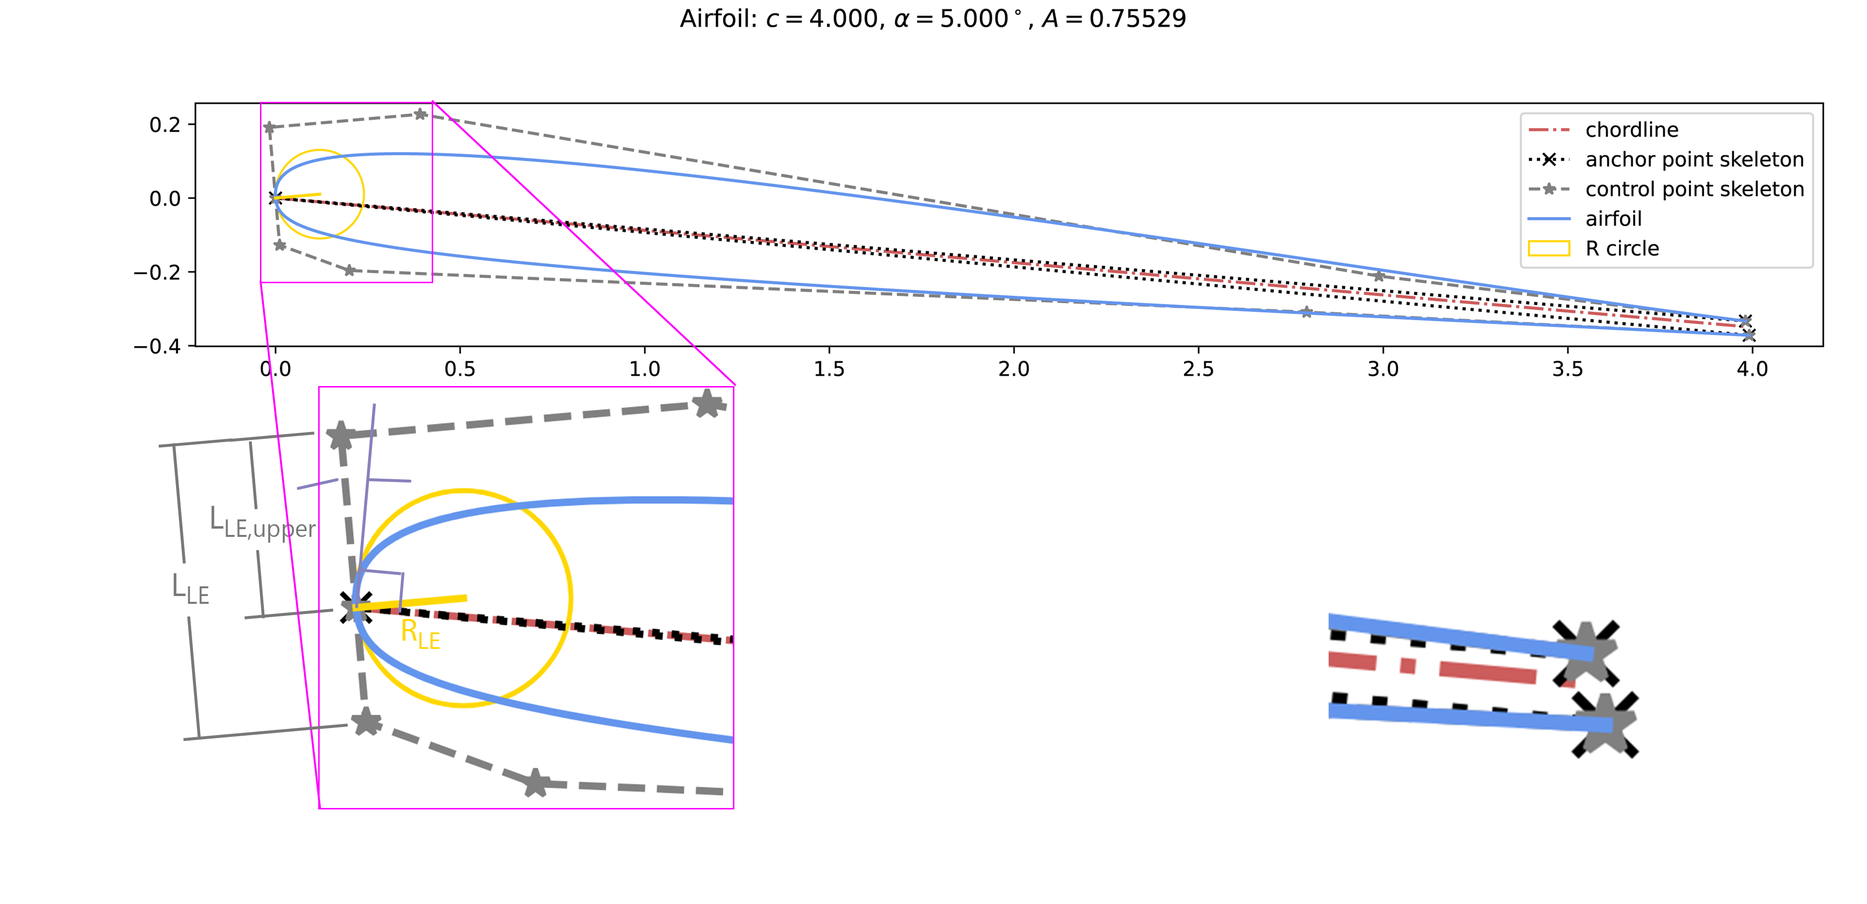
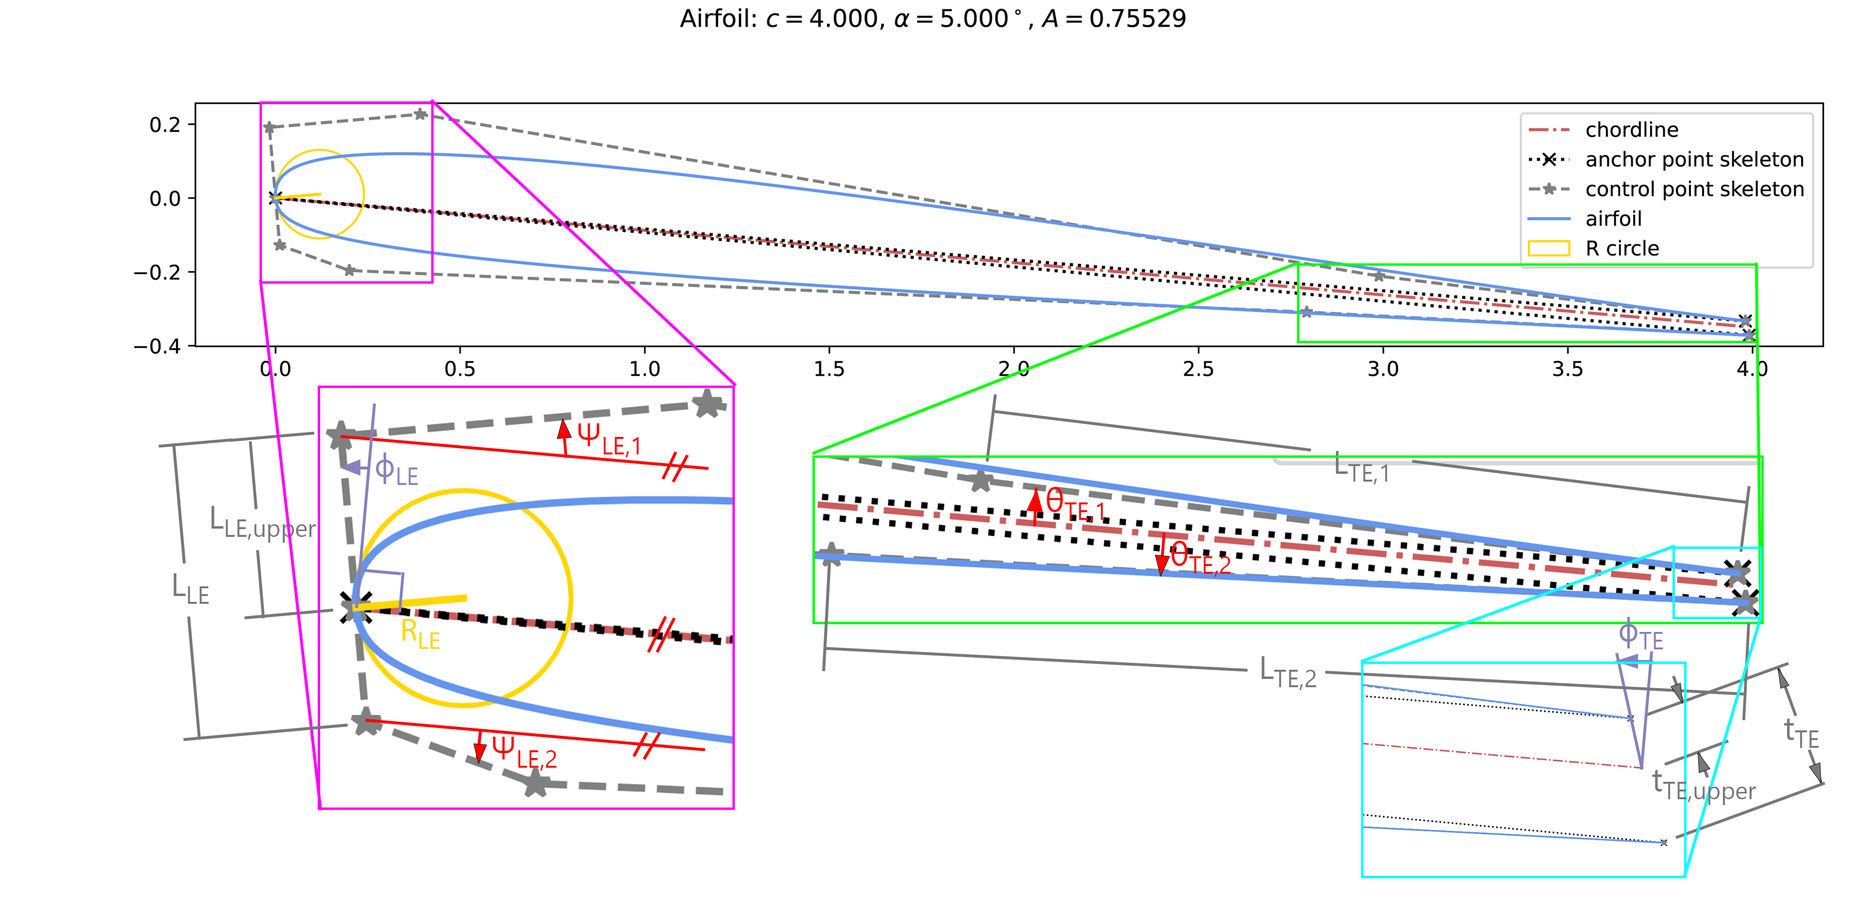
Finished documentation on BaseAirfoilParams, added documentation to Airfoil

diff --git a/docs/pyairpar/core/base_airfoil_params.html b/docs/pyairpar/core/base_airfoil_params.html
@@ -58,9 +58,63 @@ class BaseAirfoilParams:
 
         The most fundamental parameters required for the generation of any `pyairpar.core.airfoil.Airfoil`.
         A geometric description of an example airfoil generated (from `pyairpar.examples.simple_airfoil.main`) is
-        shown below
+        shown below (it may be helpful to open the image in a new tab to adequately view the details):
 
         .. image:: simple_airfoil_annotated.png
+
+        ### Args:
+
+        `c`: ( \\(c\\) ) chord length `pyairpar.core.param.Param`: Default value: `1.0`.
+
+        `alf`: ( \\(\\alpha\\) ) angle of attack (rad): `pyairpar.core.param.Param`. Default value: `0.0`.
+
+        `R_LE`: ( \\(R_{LE}\\) ) leading-edge radius: `pyairpar.core.param.Param`. Default value: `0.1`.
+
+        `L_LE`: ( \\(L_{LE}\\) ) distance between the control points immediately before and after the leading-edge
+        anchor point: `pyairpar.core.param.Param`. Default value: `0.1`.
+
+        `r_LE`: ( \\(r_{LE}\\) ) ratio of the distance from the leading-edge anchor point to the control point before to
+        the distance between the control points immediately before and after the leading-edge
+        anchor point ( \\( r_{LE} = L_{LE,upper} / L_{LE} \\) ): `pyairpar.core.param.Param`. Default value: `0.5`.
+
+        `phi_LE`: ( \\(\\phi_{LE}\\) ) leading-edge tilt (rad), referenced counter-clockwise from the perpendicular to
+        the chordline: `pyairpar.core.param.Param`. Default value: `0.0`.
+
+        `psi1_LE`: ( \\(\\psi_{LE,1}\\) ) leading-edge upper curvature control angle (rad), referenced counter-clockwise
+        from the chordline: `pyairpar.core.param.Param`. Default value: `0.0`.
+
+        `psi2_LE`: ( \\(\\psi_{LE,2}\\) ) leading-edge lower curvature control angle (rad), referenced clockwise
+        from the chordline: `pyairpar.core.param.Param`. Default value: `0.0`.
+
+        `L1_TE`: ( \\(L_{TE,1}\\) ) trailing edge upper length: `pyairpar.core.param.Param`. Default value: `0.1`.
+
+        `L2_TE`: ( \\(L_{TE,2}\\) ) trailing edge lower length: `pyairpar.core.param.Param`. Default value: `0.1`.
+
+        `theta1_TE`: ( \\(\\theta_{TE,1}\\) ) trailing edge upper angle (rad), referenced clockwise from the chordline:
+        `pyairpar.core.param.Param`. Default value: `np.deg2rad(10.0)`.
+
+        `theta2_TE`: ( \\(\\theta_{TE,2}\\) ) trailing edge lower angle (rad), referenced counter-clockwise from the
+        chordline: `pyairpar.core.param.Param`. Default value: `np.deg2rad(10.0)`.
+
+        `t_TE`: ( \\( t_{TE}\\) ) blunt trailing edge thickness: `pyairpar.core.param.Param`. Default value: `0.0`.
+
+        `r_TE`: ( \\(r_{TE}\\) ) ratio of the distance from the chordline&#39;s endpoint at the trailing edge to the
+        first control point of the airfoil to the distance between the first and last control points of the airfoil
+        ( \\( r_{TE} = L_{TE,upper} / L_{TE} \\) ): `pyairpar.core.param.Param`. Default value: `0.5`.
+
+        `phi_TE`: ( \\( \\phi_{TE}\\) ) blunt trailing-edge tilt (rad), referenced counter-clockwise from the
+        perpendicular to the chordline (same as `phi_LE`): `pyairpar.core.param.Param`. Default value: `0.0`.
+
+        `dx`: ( \\( \\Delta x\\) ) distance to translate the airfoil in the \\(x\\)-direction:
+        `pyairpar.core.param.Param`. Default value: `0.0`. The translation operation follows the rotation operation
+        such that the rotation operation can be performed about the origin. Inactive by default.
+
+        `dy`: ( \\( \\Delta y\\) ) distance to translate the airfoil in the \\(y\\)-direction:
+        `pyairpar.core.param.Param`. Default value: `0.0`. The translation operation follows the rotation operation
+        such that the rotation operation can be performed about the origin. Inactive by default.
+
+        `non_dim_by_chord`: a `bool` that determines whether the `pyairpar.core.param.Param`s with `units == length`
+        should be non-dimensionalized by the chord (`c`). Default value: `True`.
         &#34;&#34;&#34;
 
         self.c = c
@@ -154,8 +208,43 @@ class BaseAirfoilParams:
 <div class="desc"><h3 id="description">Description:</h3>
 <p>The most fundamental parameters required for the generation of any <code><a title="pyairpar.core.airfoil.Airfoil" href="airfoil.html#pyairpar.core.airfoil.Airfoil">Airfoil</a></code>.
 A geometric description of an example airfoil generated (from <code><a title="pyairpar.examples.simple_airfoil.main" href="../examples/simple_airfoil.html#pyairpar.examples.simple_airfoil.main">main()</a></code>) is
-shown below</p>
-<p><img alt="" src="simple_airfoil_annotated.png"></p></div>
+shown below (it may be helpful to open the image in a new tab to adequately view the details):</p>
+<p><img alt="" src="simple_airfoil_annotated.png"></p>
+<h3 id="args">Args:</h3>
+<p><code>c</code>: ( <span><span class="MathJax_Preview">c</span><script type="math/tex">c</script></span> ) chord length <code><a title="pyairpar.core.param.Param" href="param.html#pyairpar.core.param.Param">Param</a></code>: Default value: <code>1.0</code>.</p>
+<p><code>alf</code>: ( <span><span class="MathJax_Preview">\alpha</span><script type="math/tex">\alpha</script></span> ) angle of attack (rad): <code><a title="pyairpar.core.param.Param" href="param.html#pyairpar.core.param.Param">Param</a></code>. Default value: <code>0.0</code>.</p>
+<p><code>R_LE</code>: ( <span><span class="MathJax_Preview">R_{LE}</span><script type="math/tex">R_{LE}</script></span> ) leading-edge radius: <code><a title="pyairpar.core.param.Param" href="param.html#pyairpar.core.param.Param">Param</a></code>. Default value: <code>0.1</code>.</p>
+<p><code>L_LE</code>: ( <span><span class="MathJax_Preview">L_{LE}</span><script type="math/tex">L_{LE}</script></span> ) distance between the control points immediately before and after the leading-edge
+anchor point: <code><a title="pyairpar.core.param.Param" href="param.html#pyairpar.core.param.Param">Param</a></code>. Default value: <code>0.1</code>.</p>
+<p><code>r_LE</code>: ( <span><span class="MathJax_Preview">r_{LE}</span><script type="math/tex">r_{LE}</script></span> ) ratio of the distance from the leading-edge anchor point to the control point before to
+the distance between the control points immediately before and after the leading-edge
+anchor point ( <span><span class="MathJax_Preview"> r_{LE} = L_{LE,upper} / L_{LE} </span><script type="math/tex"> r_{LE} = L_{LE,upper} / L_{LE} </script></span> ): <code><a title="pyairpar.core.param.Param" href="param.html#pyairpar.core.param.Param">Param</a></code>. Default value: <code>0.5</code>.</p>
+<p><code>phi_LE</code>: ( <span><span class="MathJax_Preview">\phi_{LE}</span><script type="math/tex">\phi_{LE}</script></span> ) leading-edge tilt (rad), referenced counter-clockwise from the perpendicular to
+the chordline: <code><a title="pyairpar.core.param.Param" href="param.html#pyairpar.core.param.Param">Param</a></code>. Default value: <code>0.0</code>.</p>
+<p><code>psi1_LE</code>: ( <span><span class="MathJax_Preview">\psi_{LE,1}</span><script type="math/tex">\psi_{LE,1}</script></span> ) leading-edge upper curvature control angle (rad), referenced counter-clockwise
+from the chordline: <code><a title="pyairpar.core.param.Param" href="param.html#pyairpar.core.param.Param">Param</a></code>. Default value: <code>0.0</code>.</p>
+<p><code>psi2_LE</code>: ( <span><span class="MathJax_Preview">\psi_{LE,2}</span><script type="math/tex">\psi_{LE,2}</script></span> ) leading-edge lower curvature control angle (rad), referenced clockwise
+from the chordline: <code><a title="pyairpar.core.param.Param" href="param.html#pyairpar.core.param.Param">Param</a></code>. Default value: <code>0.0</code>.</p>
+<p><code>L1_TE</code>: ( <span><span class="MathJax_Preview">L_{TE,1}</span><script type="math/tex">L_{TE,1}</script></span> ) trailing edge upper length: <code><a title="pyairpar.core.param.Param" href="param.html#pyairpar.core.param.Param">Param</a></code>. Default value: <code>0.1</code>.</p>
+<p><code>L2_TE</code>: ( <span><span class="MathJax_Preview">L_{TE,2}</span><script type="math/tex">L_{TE,2}</script></span> ) trailing edge lower length: <code><a title="pyairpar.core.param.Param" href="param.html#pyairpar.core.param.Param">Param</a></code>. Default value: <code>0.1</code>.</p>
+<p><code>theta1_TE</code>: ( <span><span class="MathJax_Preview">\theta_{TE,1}</span><script type="math/tex">\theta_{TE,1}</script></span> ) trailing edge upper angle (rad), referenced clockwise from the chordline:
+<code><a title="pyairpar.core.param.Param" href="param.html#pyairpar.core.param.Param">Param</a></code>. Default value: <code>np.deg2rad(10.0)</code>.</p>
+<p><code>theta2_TE</code>: ( <span><span class="MathJax_Preview">\theta_{TE,2}</span><script type="math/tex">\theta_{TE,2}</script></span> ) trailing edge lower angle (rad), referenced counter-clockwise from the
+chordline: <code><a title="pyairpar.core.param.Param" href="param.html#pyairpar.core.param.Param">Param</a></code>. Default value: <code>np.deg2rad(10.0)</code>.</p>
+<p><code>t_TE</code>: ( <span><span class="MathJax_Preview"> t_{TE}</span><script type="math/tex"> t_{TE}</script></span> ) blunt trailing edge thickness: <code><a title="pyairpar.core.param.Param" href="param.html#pyairpar.core.param.Param">Param</a></code>. Default value: <code>0.0</code>.</p>
+<p><code>r_TE</code>: ( <span><span class="MathJax_Preview">r_{TE}</span><script type="math/tex">r_{TE}</script></span> ) ratio of the distance from the chordline's endpoint at the trailing edge to the
+first control point of the airfoil to the distance between the first and last control points of the airfoil
+( <span><span class="MathJax_Preview"> r_{TE} = L_{TE,upper} / L_{TE} </span><script type="math/tex"> r_{TE} = L_{TE,upper} / L_{TE} </script></span> ): <code><a title="pyairpar.core.param.Param" href="param.html#pyairpar.core.param.Param">Param</a></code>. Default value: <code>0.5</code>.</p>
+<p><code>phi_TE</code>: ( <span><span class="MathJax_Preview"> \phi_{TE}</span><script type="math/tex"> \phi_{TE}</script></span> ) blunt trailing-edge tilt (rad), referenced counter-clockwise from the
+perpendicular to the chordline (same as <code>phi_LE</code>): <code><a title="pyairpar.core.param.Param" href="param.html#pyairpar.core.param.Param">Param</a></code>. Default value: <code>0.0</code>.</p>
+<p><code>dx</code>: ( <span><span class="MathJax_Preview"> \Delta x</span><script type="math/tex"> \Delta x</script></span> ) distance to translate the airfoil in the <span><span class="MathJax_Preview">x</span><script type="math/tex">x</script></span>-direction:
+<code><a title="pyairpar.core.param.Param" href="param.html#pyairpar.core.param.Param">Param</a></code>. Default value: <code>0.0</code>. The translation operation follows the rotation operation
+such that the rotation operation can be performed about the origin. Inactive by default.</p>
+<p><code>dy</code>: ( <span><span class="MathJax_Preview"> \Delta y</span><script type="math/tex"> \Delta y</script></span> ) distance to translate the airfoil in the <span><span class="MathJax_Preview">y</span><script type="math/tex">y</script></span>-direction:
+<code><a title="pyairpar.core.param.Param" href="param.html#pyairpar.core.param.Param">Param</a></code>. Default value: <code>0.0</code>. The translation operation follows the rotation operation
+such that the rotation operation can be performed about the origin. Inactive by default.</p>
+<p><code>non_dim_by_chord</code>: a <code>bool</code> that determines whether the <code><a title="pyairpar.core.param.Param" href="param.html#pyairpar.core.param.Param">Param</a></code>s with <code>units == length</code>
+should be non-dimensionalized by the chord (<code>c</code>). Default value: <code>True</code>.</p></div>
 <details class="source">
 <summary>
 <span>Expand source code</span>
@@ -187,9 +276,63 @@ shown below</p>
 
         The most fundamental parameters required for the generation of any `pyairpar.core.airfoil.Airfoil`.
         A geometric description of an example airfoil generated (from `pyairpar.examples.simple_airfoil.main`) is
-        shown below
+        shown below (it may be helpful to open the image in a new tab to adequately view the details):
 
         .. image:: simple_airfoil_annotated.png
+
+        ### Args:
+
+        `c`: ( \\(c\\) ) chord length `pyairpar.core.param.Param`: Default value: `1.0`.
+
+        `alf`: ( \\(\\alpha\\) ) angle of attack (rad): `pyairpar.core.param.Param`. Default value: `0.0`.
+
+        `R_LE`: ( \\(R_{LE}\\) ) leading-edge radius: `pyairpar.core.param.Param`. Default value: `0.1`.
+
+        `L_LE`: ( \\(L_{LE}\\) ) distance between the control points immediately before and after the leading-edge
+        anchor point: `pyairpar.core.param.Param`. Default value: `0.1`.
+
+        `r_LE`: ( \\(r_{LE}\\) ) ratio of the distance from the leading-edge anchor point to the control point before to
+        the distance between the control points immediately before and after the leading-edge
+        anchor point ( \\( r_{LE} = L_{LE,upper} / L_{LE} \\) ): `pyairpar.core.param.Param`. Default value: `0.5`.
+
+        `phi_LE`: ( \\(\\phi_{LE}\\) ) leading-edge tilt (rad), referenced counter-clockwise from the perpendicular to
+        the chordline: `pyairpar.core.param.Param`. Default value: `0.0`.
+
+        `psi1_LE`: ( \\(\\psi_{LE,1}\\) ) leading-edge upper curvature control angle (rad), referenced counter-clockwise
+        from the chordline: `pyairpar.core.param.Param`. Default value: `0.0`.
+
+        `psi2_LE`: ( \\(\\psi_{LE,2}\\) ) leading-edge lower curvature control angle (rad), referenced clockwise
+        from the chordline: `pyairpar.core.param.Param`. Default value: `0.0`.
+
+        `L1_TE`: ( \\(L_{TE,1}\\) ) trailing edge upper length: `pyairpar.core.param.Param`. Default value: `0.1`.
+
+        `L2_TE`: ( \\(L_{TE,2}\\) ) trailing edge lower length: `pyairpar.core.param.Param`. Default value: `0.1`.
+
+        `theta1_TE`: ( \\(\\theta_{TE,1}\\) ) trailing edge upper angle (rad), referenced clockwise from the chordline:
+        `pyairpar.core.param.Param`. Default value: `np.deg2rad(10.0)`.
+
+        `theta2_TE`: ( \\(\\theta_{TE,2}\\) ) trailing edge lower angle (rad), referenced counter-clockwise from the
+        chordline: `pyairpar.core.param.Param`. Default value: `np.deg2rad(10.0)`.
+
+        `t_TE`: ( \\( t_{TE}\\) ) blunt trailing edge thickness: `pyairpar.core.param.Param`. Default value: `0.0`.
+
+        `r_TE`: ( \\(r_{TE}\\) ) ratio of the distance from the chordline&#39;s endpoint at the trailing edge to the
+        first control point of the airfoil to the distance between the first and last control points of the airfoil
+        ( \\( r_{TE} = L_{TE,upper} / L_{TE} \\) ): `pyairpar.core.param.Param`. Default value: `0.5`.
+
+        `phi_TE`: ( \\( \\phi_{TE}\\) ) blunt trailing-edge tilt (rad), referenced counter-clockwise from the
+        perpendicular to the chordline (same as `phi_LE`): `pyairpar.core.param.Param`. Default value: `0.0`.
+
+        `dx`: ( \\( \\Delta x\\) ) distance to translate the airfoil in the \\(x\\)-direction:
+        `pyairpar.core.param.Param`. Default value: `0.0`. The translation operation follows the rotation operation
+        such that the rotation operation can be performed about the origin. Inactive by default.
+
+        `dy`: ( \\( \\Delta y\\) ) distance to translate the airfoil in the \\(y\\)-direction:
+        `pyairpar.core.param.Param`. Default value: `0.0`. The translation operation follows the rotation operation
+        such that the rotation operation can be performed about the origin. Inactive by default.
+
+        `non_dim_by_chord`: a `bool` that determines whether the `pyairpar.core.param.Param`s with `units == length`
+        should be non-dimensionalized by the chord (`c`). Default value: `True`.
         &#34;&#34;&#34;
 
         self.c = c

diff --git a/docs/pyairpar/core/airfoil.html b/docs/pyairpar/core/airfoil.html
@@ -580,8 +580,9 @@ def bezier(P: np.ndarray, nt: int) -&gt; dict:
 
     ### Args:
 
-    `P`: `np.ndarray` of `shape=(n+1, 2)`, where `n` is the order of the Bézier curve and `n+1` is the number of
-    control points in the Bézier curve. The two columns represent the `x` and `y` components of the control points.
+    `P`: The control point `np.ndarray` of `shape=(n+1, 2)`, where `n` is the order of the Bézier curve and `n+1` is
+    the number of control points in the Bézier curve. The two columns represent the \\(x\\)- and \\(y\\) -components of
+    the control points.
 
     `nt`: number of points in the `t` vector (defines the resolution of the curve)
 
@@ -762,8 +763,9 @@ and <span><span class="MathJax_Preview">P_1</span><script type="math/tex">P_1</s
 continuity at Bézier curve "joints" (common endpoints of connected Bézier curves).</p>
 <p><img alt="" src="bezier_curve.png"></p>
 <h3 id="args">Args:</h3>
-<p><code>P</code>: <code>np.ndarray</code> of <code>shape=(n+1, 2)</code>, where <code>n</code> is the order of the Bézier curve and <code>n+1</code> is the number of
-control points in the Bézier curve. The two columns represent the <code>x</code> and <code>y</code> components of the control points.</p>
+<p><code>P</code>: The control point <code>np.ndarray</code> of <code>shape=(n+1, 2)</code>, where <code>n</code> is the order of the Bézier curve and <code>n+1</code> is
+the number of control points in the Bézier curve. The two columns represent the <span><span class="MathJax_Preview">x</span><script type="math/tex">x</script></span>- and <span><span class="MathJax_Preview">y</span><script type="math/tex">y</script></span> -components of
+the control points.</p>
 <p><code>nt</code>: number of points in the <code>t</code> vector (defines the resolution of the curve)</p>
 <h3 id="returns">Returns:</h3>
 <p>A dictionary of <code>numpy</code> arrays of <code>shape=nt</code> containing information related to the created Bézier curve:</p>
@@ -797,8 +799,9 @@ where the <span><span class="MathJax_Preview">x</span><script type="math/tex">x<
 
     ### Args:
 
-    `P`: `np.ndarray` of `shape=(n+1, 2)`, where `n` is the order of the Bézier curve and `n+1` is the number of
-    control points in the Bézier curve. The two columns represent the `x` and `y` components of the control points.
+    `P`: The control point `np.ndarray` of `shape=(n+1, 2)`, where `n` is the order of the Bézier curve and `n+1` is
+    the number of control points in the Bézier curve. The two columns represent the \\(x\\)- and \\(y\\) -components of
+    the control points.
 
     `nt`: number of points in the `t` vector (defines the resolution of the curve)
 

diff --git a/pyairpar/core/base_airfoil_params.py b/pyairpar/core/base_airfoil_params.py
@@ -29,9 +29,63 @@ class BaseAirfoilParams:
 
         The most fundamental parameters required for the generation of any `pyairpar.core.airfoil.Airfoil`.
         A geometric description of an example airfoil generated (from `pyairpar.examples.simple_airfoil.main`) is
-        shown below (it may be necessary to open the image in a new tab to adequately view the details):
+        shown below (it may be helpful to open the image in a new tab to adequately view the details):
 
         .. image:: simple_airfoil_annotated.png
+
+        ### Args:
+
+        `c`: ( \\(c\\) ) chord length `pyairpar.core.param.Param`: Default value: `1.0`.
+
+        `alf`: ( \\(\\alpha\\) ) angle of attack (rad): `pyairpar.core.param.Param`. Default value: `0.0`.
+
+        `R_LE`: ( \\(R_{LE}\\) ) leading-edge radius: `pyairpar.core.param.Param`. Default value: `0.1`.
+
+        `L_LE`: ( \\(L_{LE}\\) ) distance between the control points immediately before and after the leading-edge
+        anchor point: `pyairpar.core.param.Param`. Default value: `0.1`.
+
+        `r_LE`: ( \\(r_{LE}\\) ) ratio of the distance from the leading-edge anchor point to the control point before to
+        the distance between the control points immediately before and after the leading-edge
+        anchor point ( \\( r_{LE} = L_{LE,upper} / L_{LE} \\) ): `pyairpar.core.param.Param`. Default value: `0.5`.
+
+        `phi_LE`: ( \\(\\phi_{LE}\\) ) leading-edge tilt (rad), referenced counter-clockwise from the perpendicular to
+        the chordline: `pyairpar.core.param.Param`. Default value: `0.0`.
+
+        `psi1_LE`: ( \\(\\psi_{LE,1}\\) ) leading-edge upper curvature control angle (rad), referenced counter-clockwise
+        from the chordline: `pyairpar.core.param.Param`. Default value: `0.0`.
+
+        `psi2_LE`: ( \\(\\psi_{LE,2}\\) ) leading-edge lower curvature control angle (rad), referenced clockwise
+        from the chordline: `pyairpar.core.param.Param`. Default value: `0.0`.
+
+        `L1_TE`: ( \\(L_{TE,1}\\) ) trailing edge upper length: `pyairpar.core.param.Param`. Default value: `0.1`.
+
+        `L2_TE`: ( \\(L_{TE,2}\\) ) trailing edge lower length: `pyairpar.core.param.Param`. Default value: `0.1`.
+
+        `theta1_TE`: ( \\(\\theta_{TE,1}\\) ) trailing edge upper angle (rad), referenced clockwise from the chordline:
+        `pyairpar.core.param.Param`. Default value: `np.deg2rad(10.0)`.
+
+        `theta2_TE`: ( \\(\\theta_{TE,2}\\) ) trailing edge lower angle (rad), referenced counter-clockwise from the
+        chordline: `pyairpar.core.param.Param`. Default value: `np.deg2rad(10.0)`.
+
+        `t_TE`: ( \\( t_{TE}\\) ) blunt trailing edge thickness: `pyairpar.core.param.Param`. Default value: `0.0`.
+
+        `r_TE`: ( \\(r_{TE}\\) ) ratio of the distance from the chordline's endpoint at the trailing edge to the
+        first control point of the airfoil to the distance between the first and last control points of the airfoil
+        ( \\( r_{TE} = L_{TE,upper} / L_{TE} \\) ): `pyairpar.core.param.Param`. Default value: `0.5`.
+
+        `phi_TE`: ( \\( \\phi_{TE}\\) ) blunt trailing-edge tilt (rad), referenced counter-clockwise from the
+        perpendicular to the chordline (same as `phi_LE`): `pyairpar.core.param.Param`. Default value: `0.0`.
+
+        `dx`: ( \\( \\Delta x\\) ) distance to translate the airfoil in the \\(x\\)-direction:
+        `pyairpar.core.param.Param`. Default value: `0.0`. The translation operation follows the rotation operation
+        such that the rotation operation can be performed about the origin. Inactive by default.
+
+        `dy`: ( \\( \\Delta y\\) ) distance to translate the airfoil in the \\(y\\)-direction:
+        `pyairpar.core.param.Param`. Default value: `0.0`. The translation operation follows the rotation operation
+        such that the rotation operation can be performed about the origin. Inactive by default.
+
+        `non_dim_by_chord`: a `bool` that determines whether the `pyairpar.core.param.Param`s with `units == length`
+        should be non-dimensionalized by the chord (`c`). Default value: `True`.
         """
 
         self.c = c

diff --git a/pyairpar/core/airfoil.py b/pyairpar/core/airfoil.py
@@ -551,8 +551,9 @@ def bezier(P: np.ndarray, nt: int) -> dict:
 
     ### Args:
 
-    `P`: `np.ndarray` of `shape=(n+1, 2)`, where `n` is the order of the Bézier curve and `n+1` is the number of
-    control points in the Bézier curve. The two columns represent the `x` and `y` components of the control points.
+    `P`: The control point `np.ndarray` of `shape=(n+1, 2)`, where `n` is the order of the Bézier curve and `n+1` is
+    the number of control points in the Bézier curve. The two columns represent the \\(x\\)- and \\(y\\) -components of
+    the control points.
 
     `nt`: number of points in the `t` vector (defines the resolution of the curve)
 
